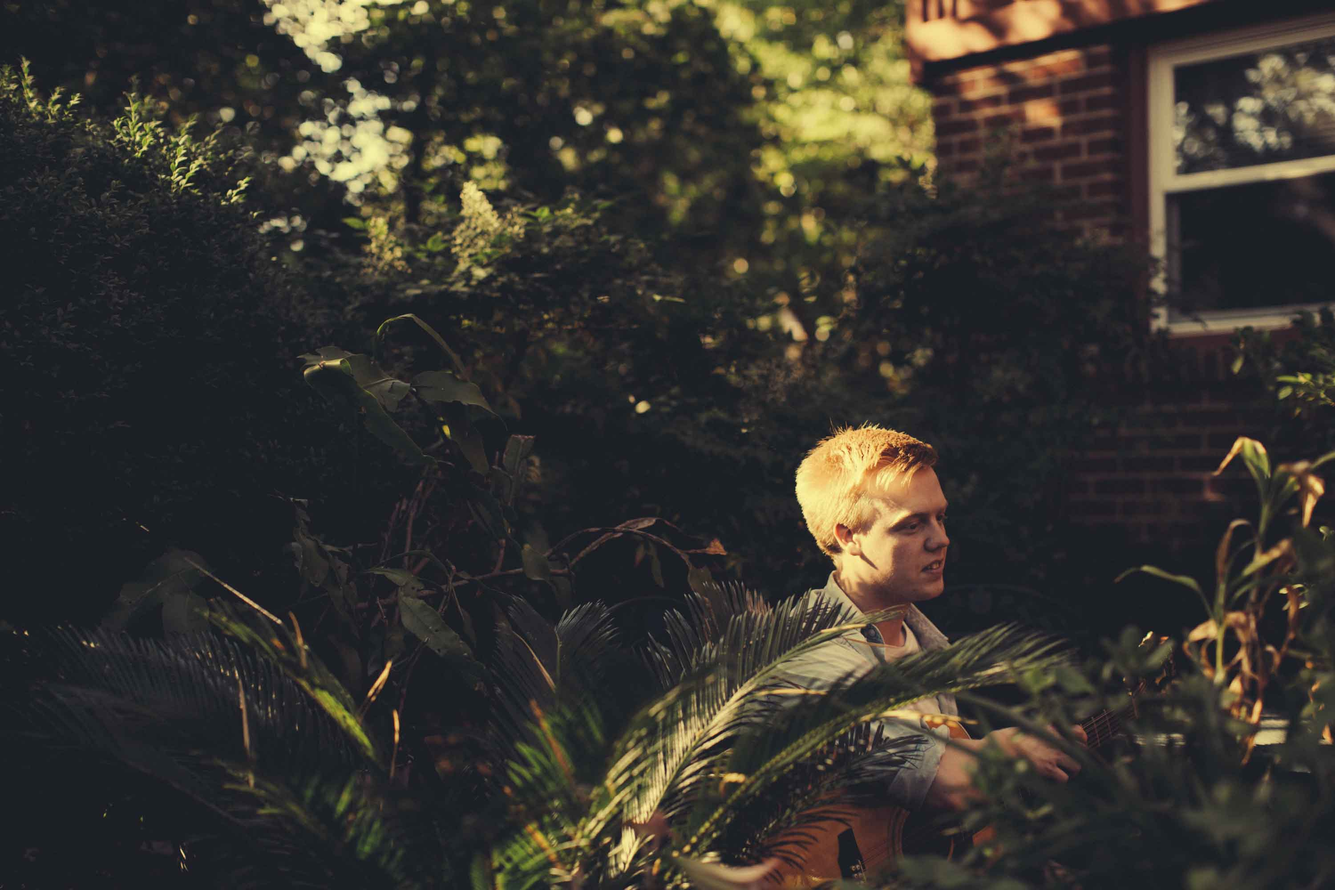
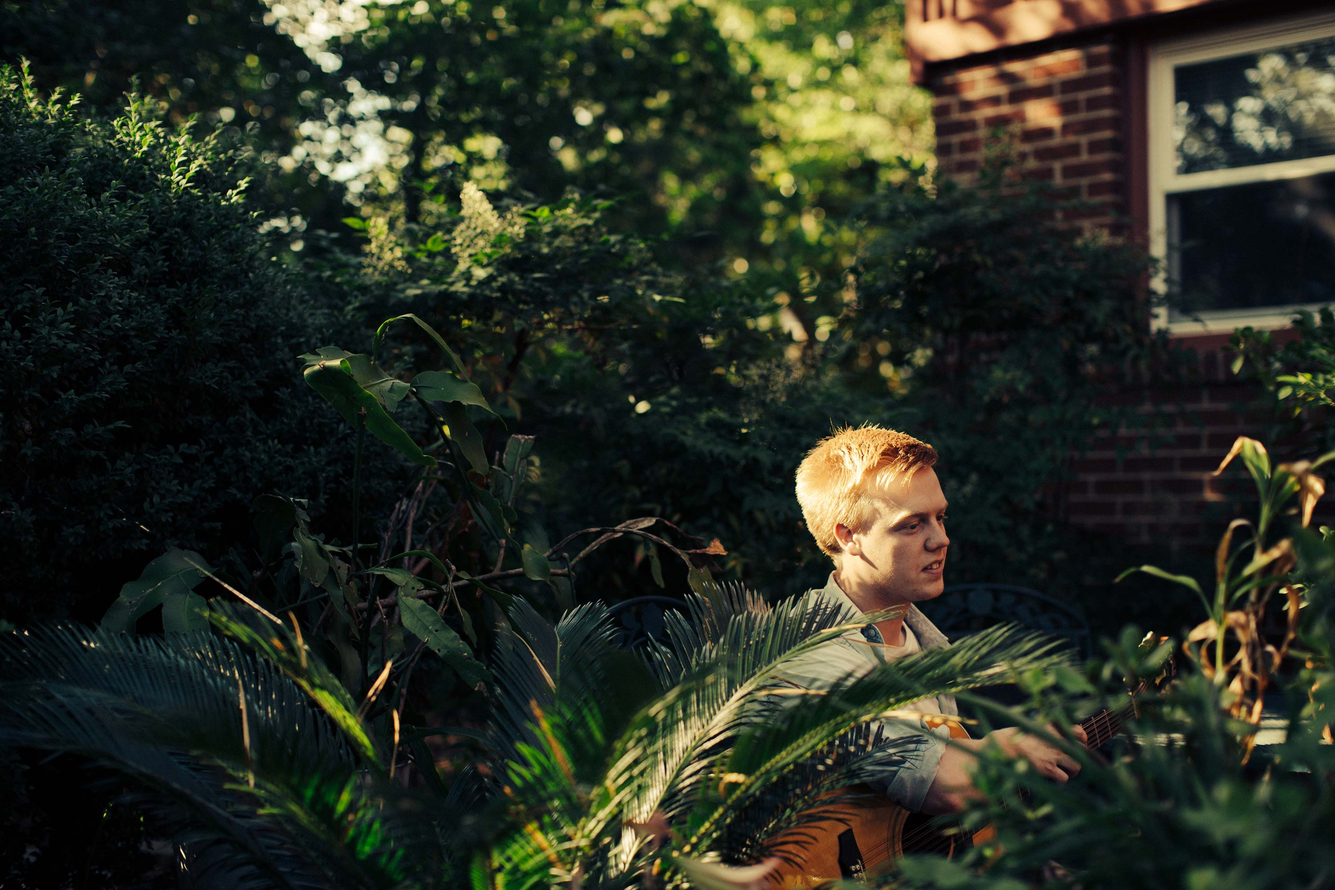
Index Header Edits New Journal Hero Comps

diff --git a/journal/daniel-bachman/index.html b/journal/daniel-bachman/index.html
@@ -110,7 +110,7 @@
     </a>
   </div>
 
-  <div plangular src="https://soundcloud.com/singlesclubfm/coming-home" class="table center min-y100 bg-black bg-cover bg-center" style="background-image: url(images/Hero_NoComp.jpg)">
+  <div plangular src="https://soundcloud.com/singlesclubfm/coming-home" class="table center min-y100 bg-black bg-cover bg-center" style="background-image: url(images/Hero_Comp.jpg)">
     <header class="table-row y100 px2 white">
       <div class="table-cell x100">
         <div class="container py4">
@@ -294,7 +294,7 @@
     </section>
   </article>
 
-  <section class="relative table responsive min-y100 center bg-cover aa white" style="background-image: url(images/Watch_Comp.jpg)" ng-controller="ModalCtrl">
+  <section class="relative table responsive min-y100 center bg-cover aa white" style="background-image: url(images/HeroB_Comp.jpg)" ng-controller="ModalCtrl">
     <div class="table-cell py4">
       <h3 class="apercu-bold h2 caps">Watch</h3>
       <a href ng-click="openModal()" class="button-circle button-circle-big button-gold button-icon-gold mb2">

diff --git a/index.html b/index.html
@@ -142,7 +142,7 @@
     </div>
   </section>
 
-  <section class="aa center white bg-black bg-cover pt4 pb4 bg-center" style="background-image: url(images/shop-image-1.jpg)">
+  <section class="aa center white bg-black bg-cover pt4 pb4 bg-center" style="background-image: url(images/shop-image-2.jpg)">
     <a href="http://shop.singlesclub.fm" class="block py6 link-white-static">
       <!--
       <h1 class="h1 apercu-bold caps mb0">The shop is now open</h1>
